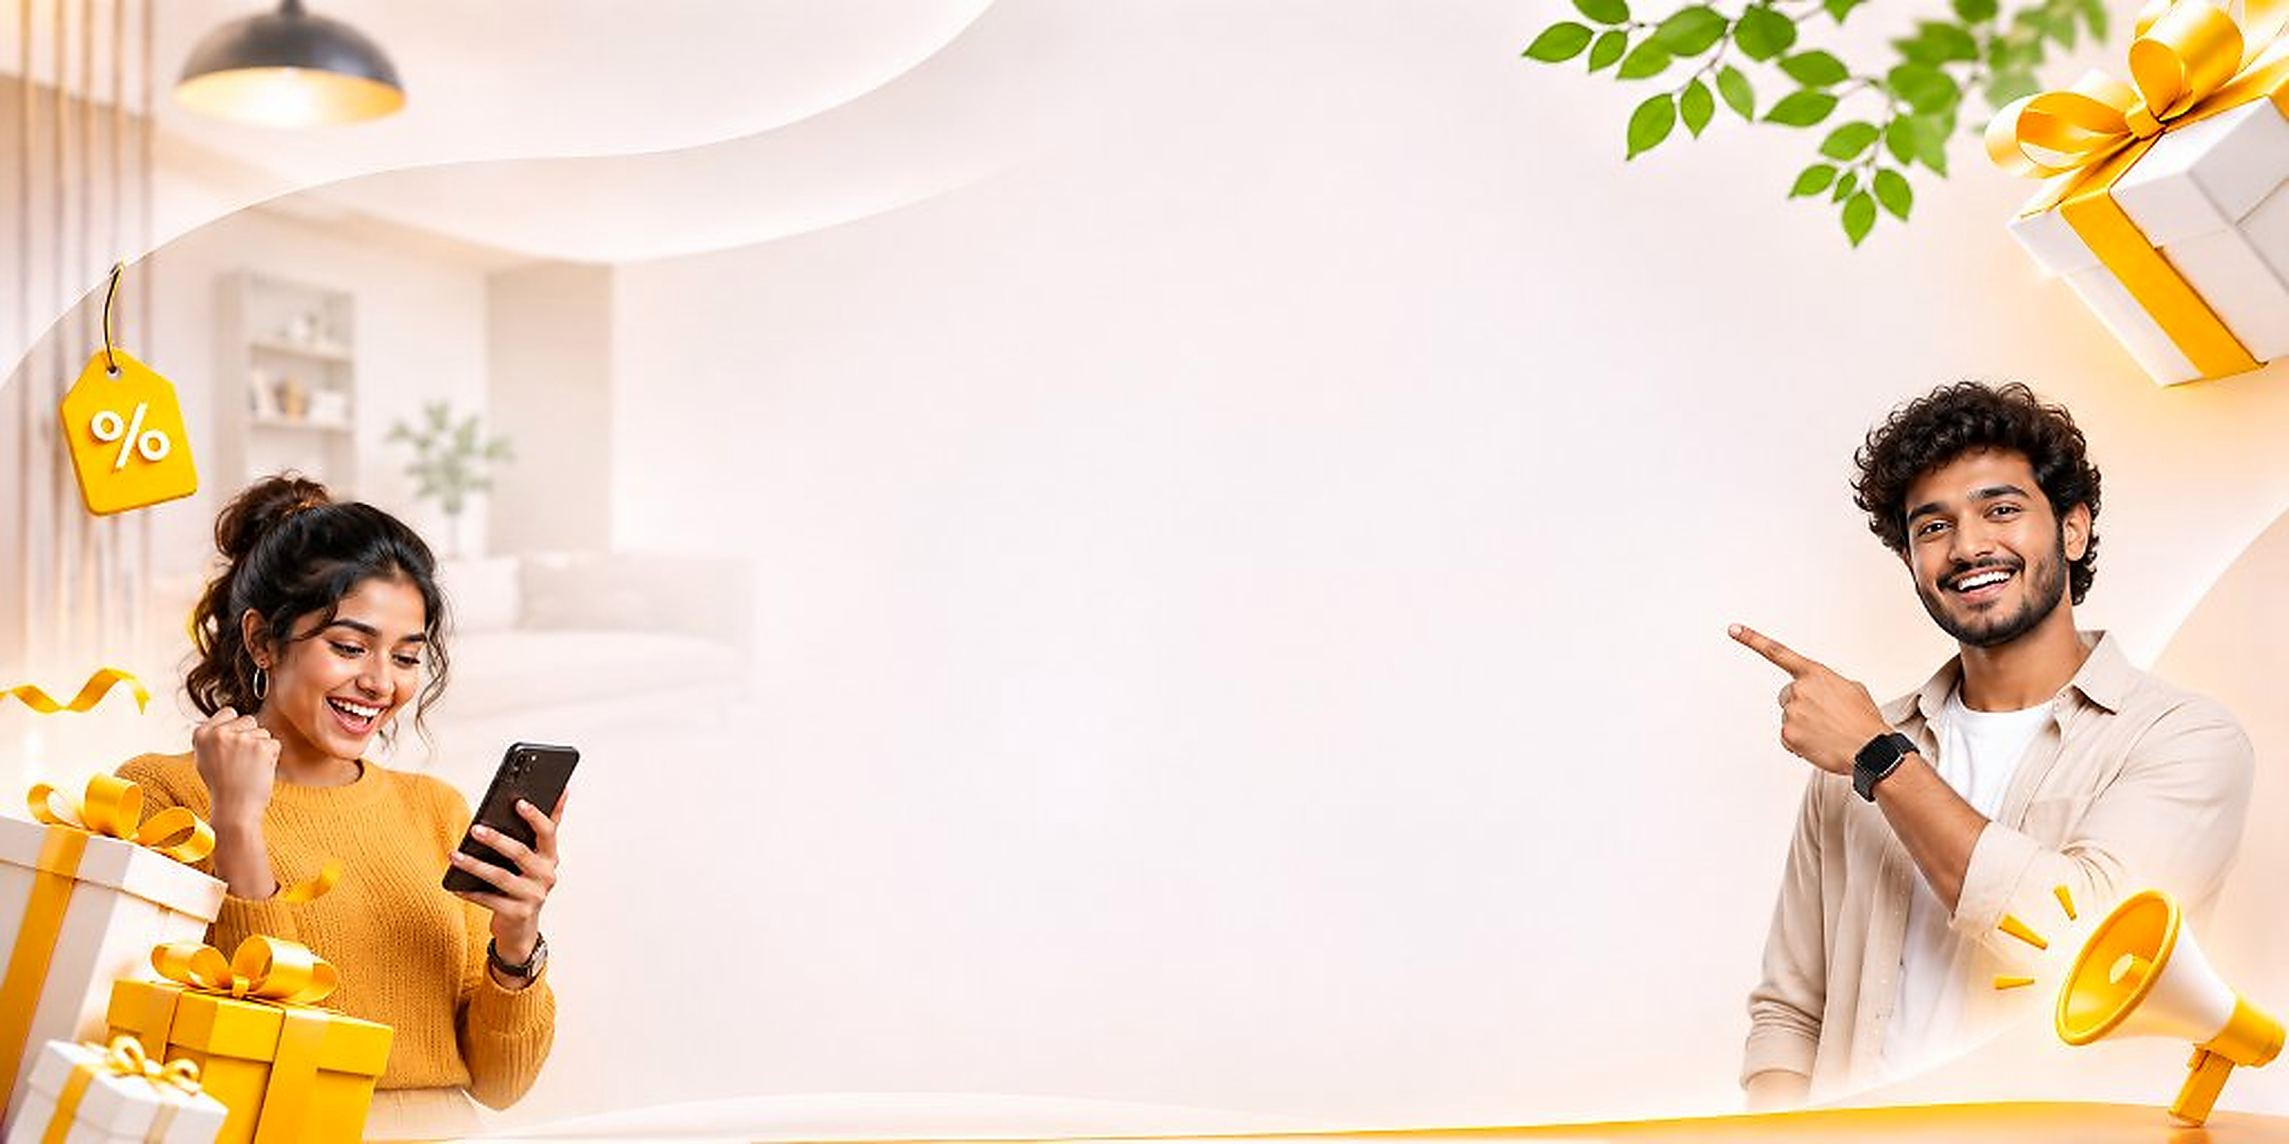
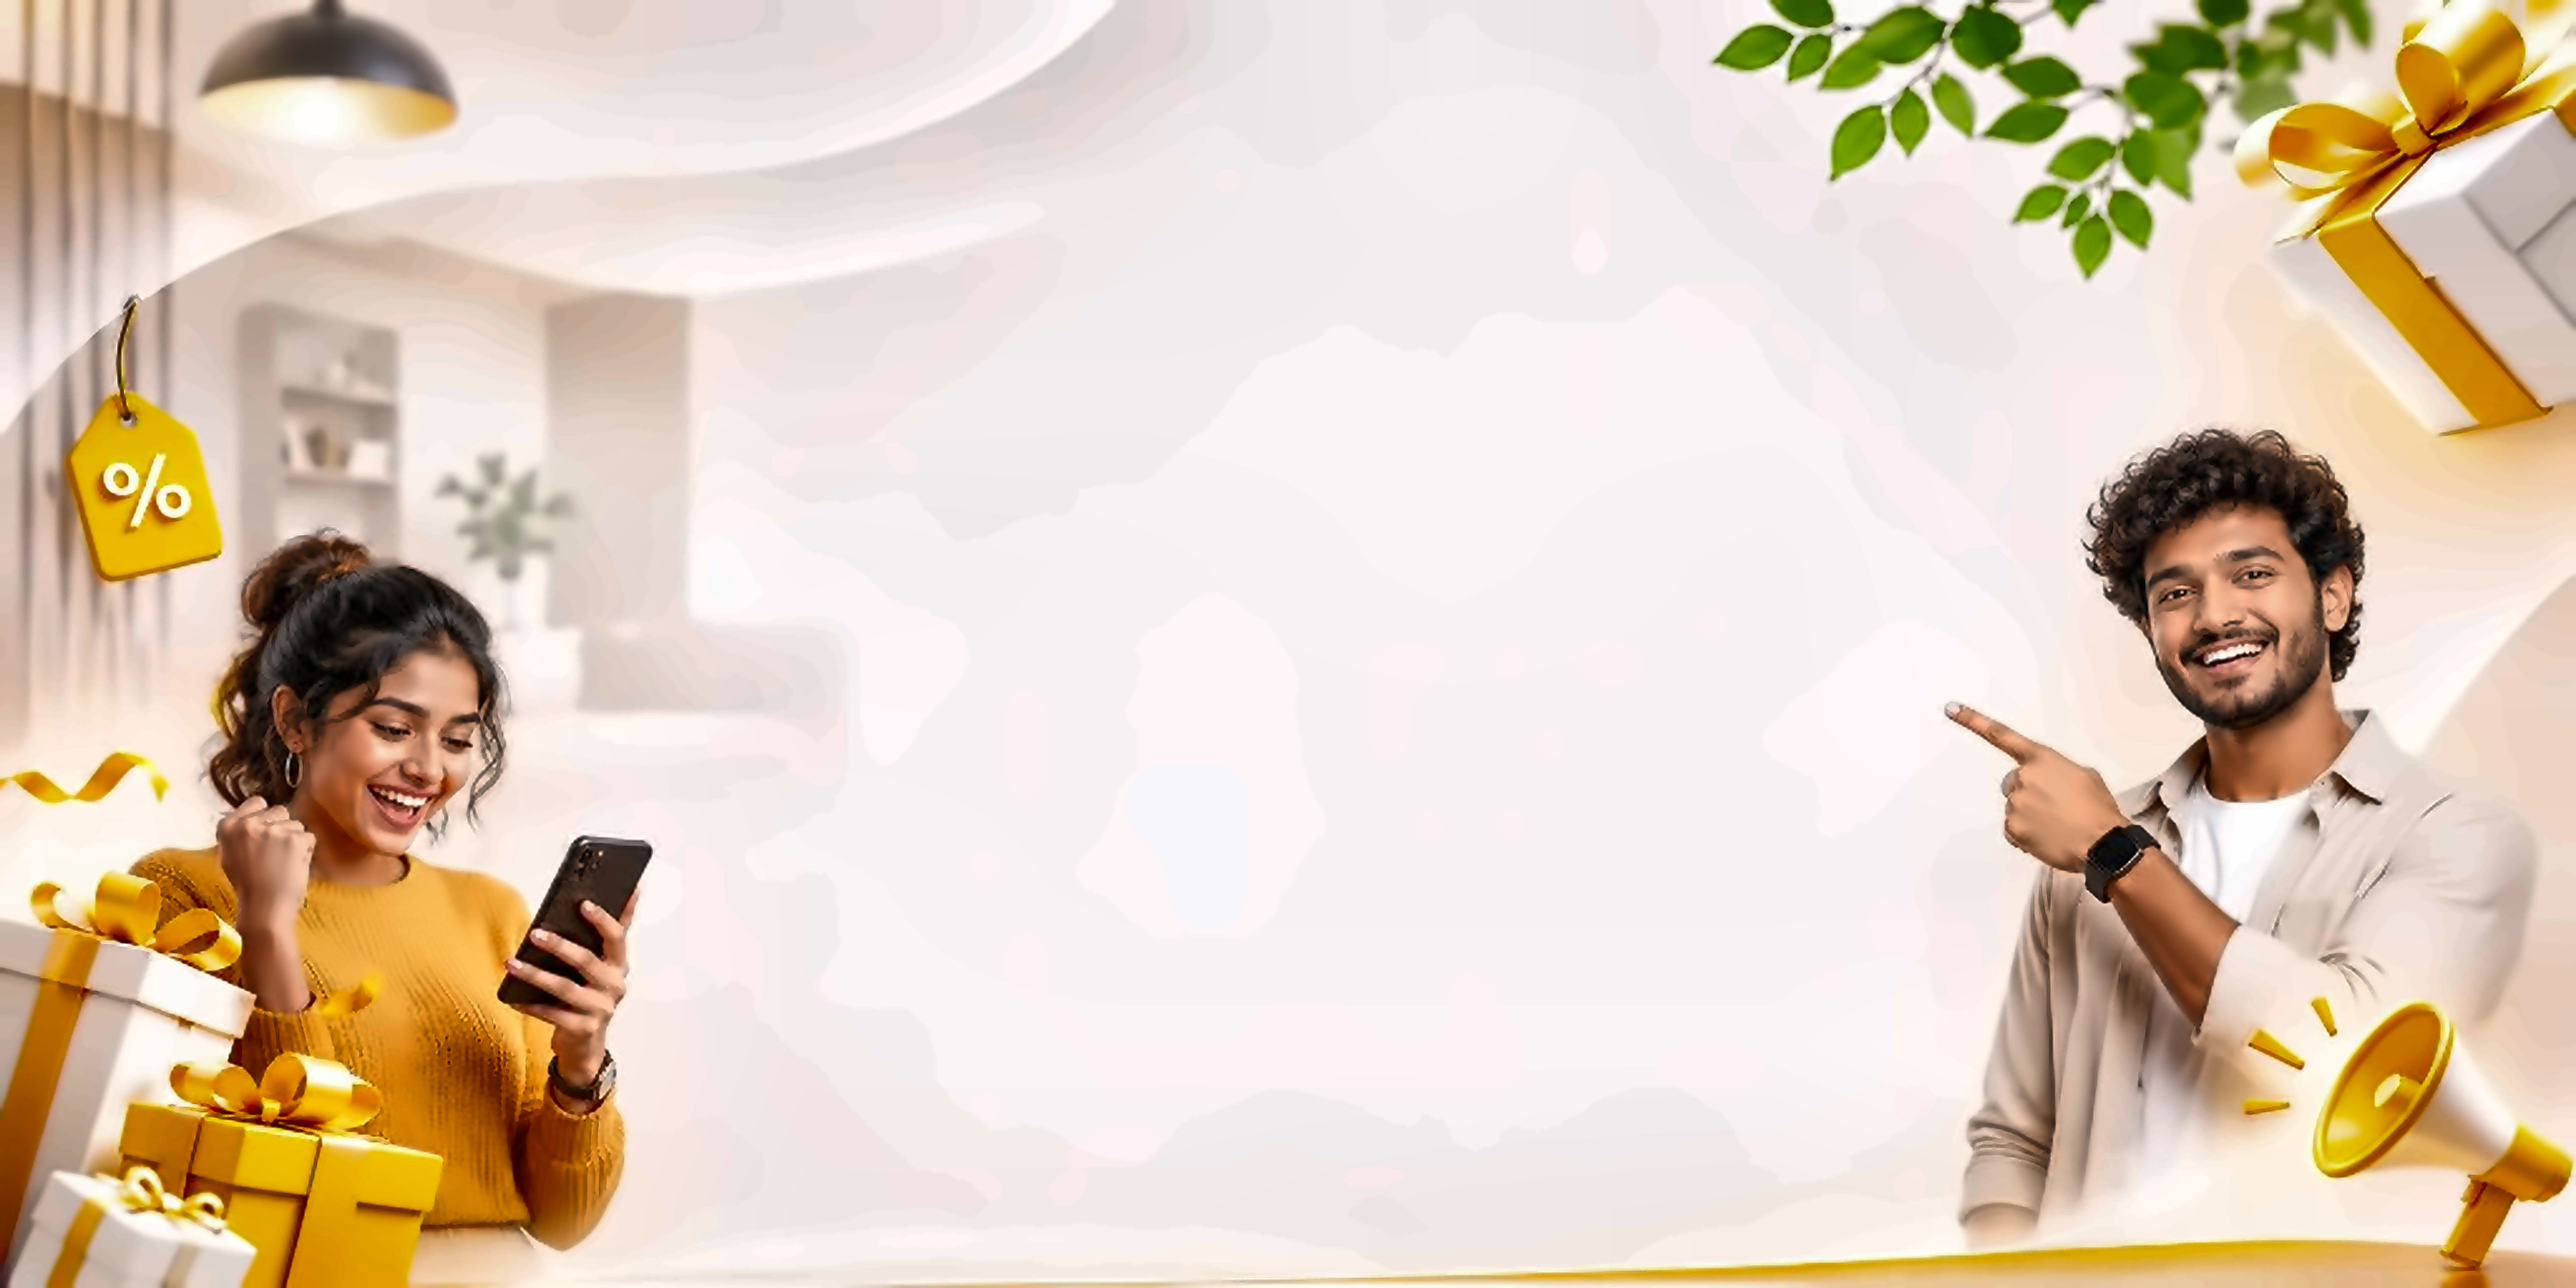
Enhance offers and referral page picture quality with high-res 2880x1440 master and WebP support

diff --git a/styles.css b/styles.css
@@ -5429,9 +5429,14 @@ html, body {
   margin-right: calc(-50vw + 50%);
   overflow: hidden;
   border-bottom: 1px solid var(--line);
-  background: #fbf9f5 url('/assets/offers-referral-bg.jpg?v=3') no-repeat center center;
+  background: #fbf9f5 url('/assets/offers-referral-bg.webp?v=6') no-repeat center center;
+  background-image: image-set(
+    url('/assets/offers-referral-bg.webp?v=6') type('image/webp'),
+    url('/assets/offers-referral-bg.jpg?v=6') type('image/jpeg')
+  );
   background-size: cover;
-  image-rendering: -webkit-optimize-contrast;
+  background-position: center center;
+  image-rendering: auto;
 }
 
 .referral-hero-bg-wrap {
